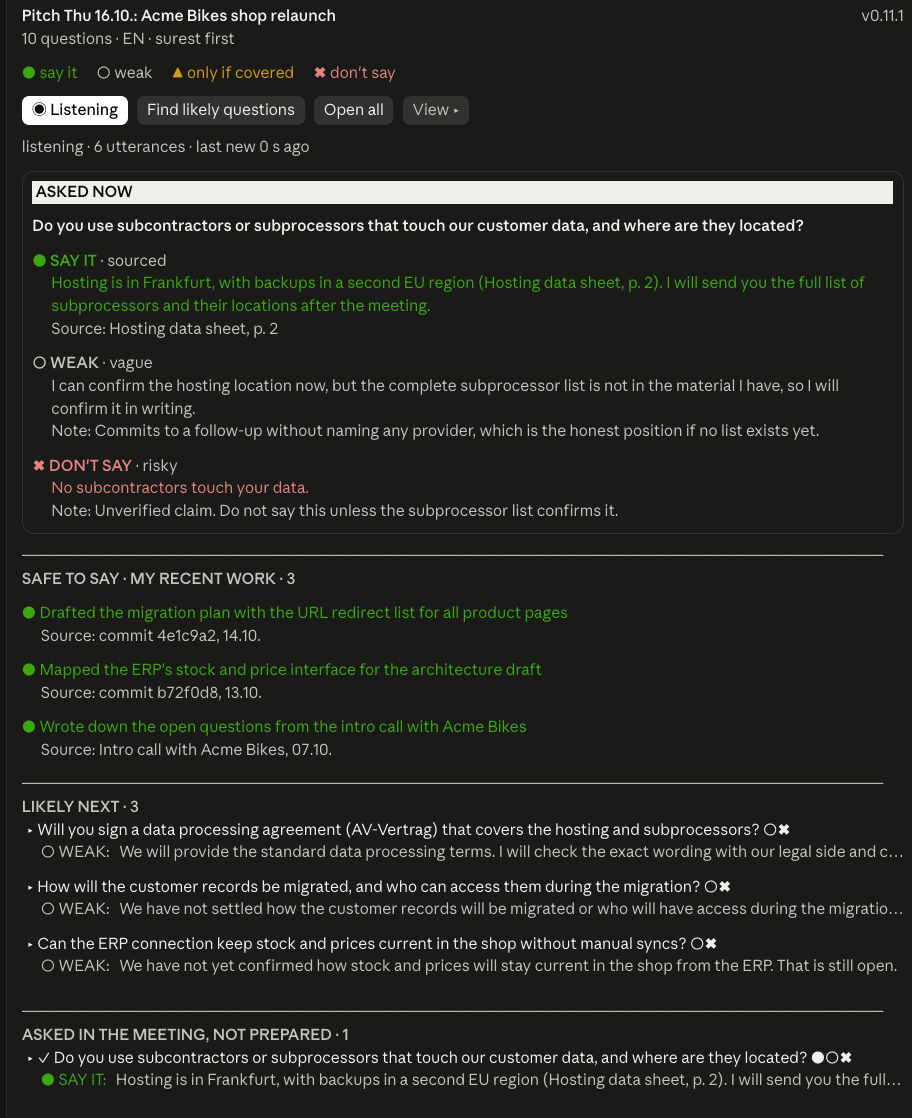
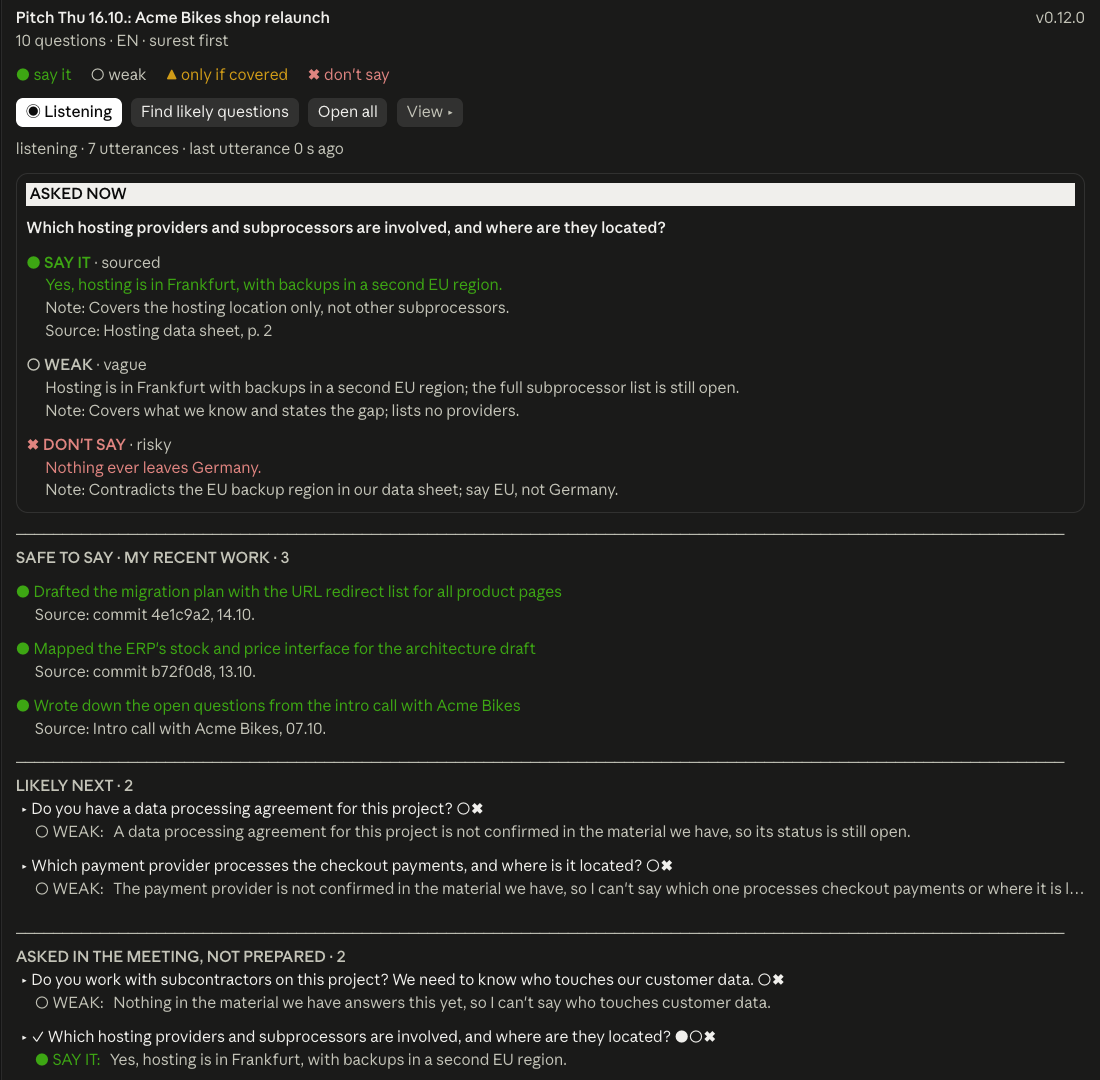
README: live screenshot retaken with 0.12.0, no promise in SAY IT

diff --git a/README.md b/README.md
@@ -47,7 +47,7 @@ Where the documents give no firm answer, the panel offers, safest first, what is
 
 Listening along: the question just asked moves to **ASKED NOW** with answers by risk, your recent work stays on show as safe to say, and the next likely questions appear below, each with its safest answer in one line:
 
-![Listening: the question asked now with its answers, my recent work, three likely next questions and the question asked but not prepared](docs/live.png)
+![Listening: the question asked now with its answers, my recent work, two likely next questions and two questions asked but not prepared](docs/live.png)
 
 While a question is open, new ones wait behind a button instead of moving the list:
 
